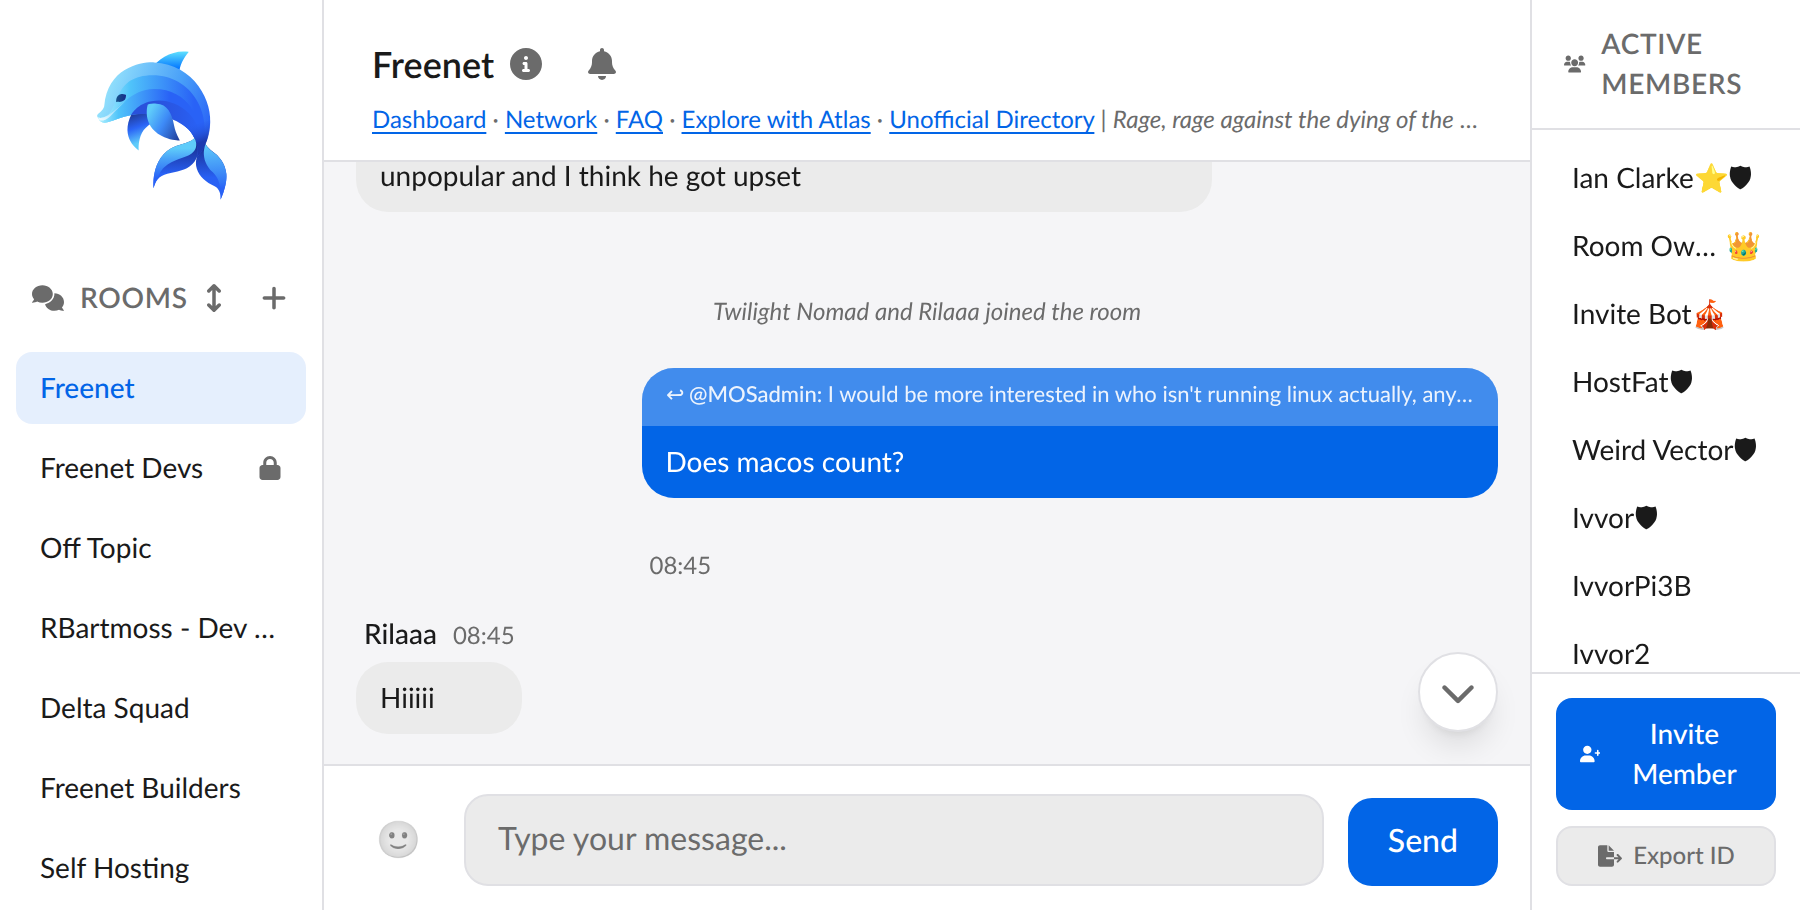
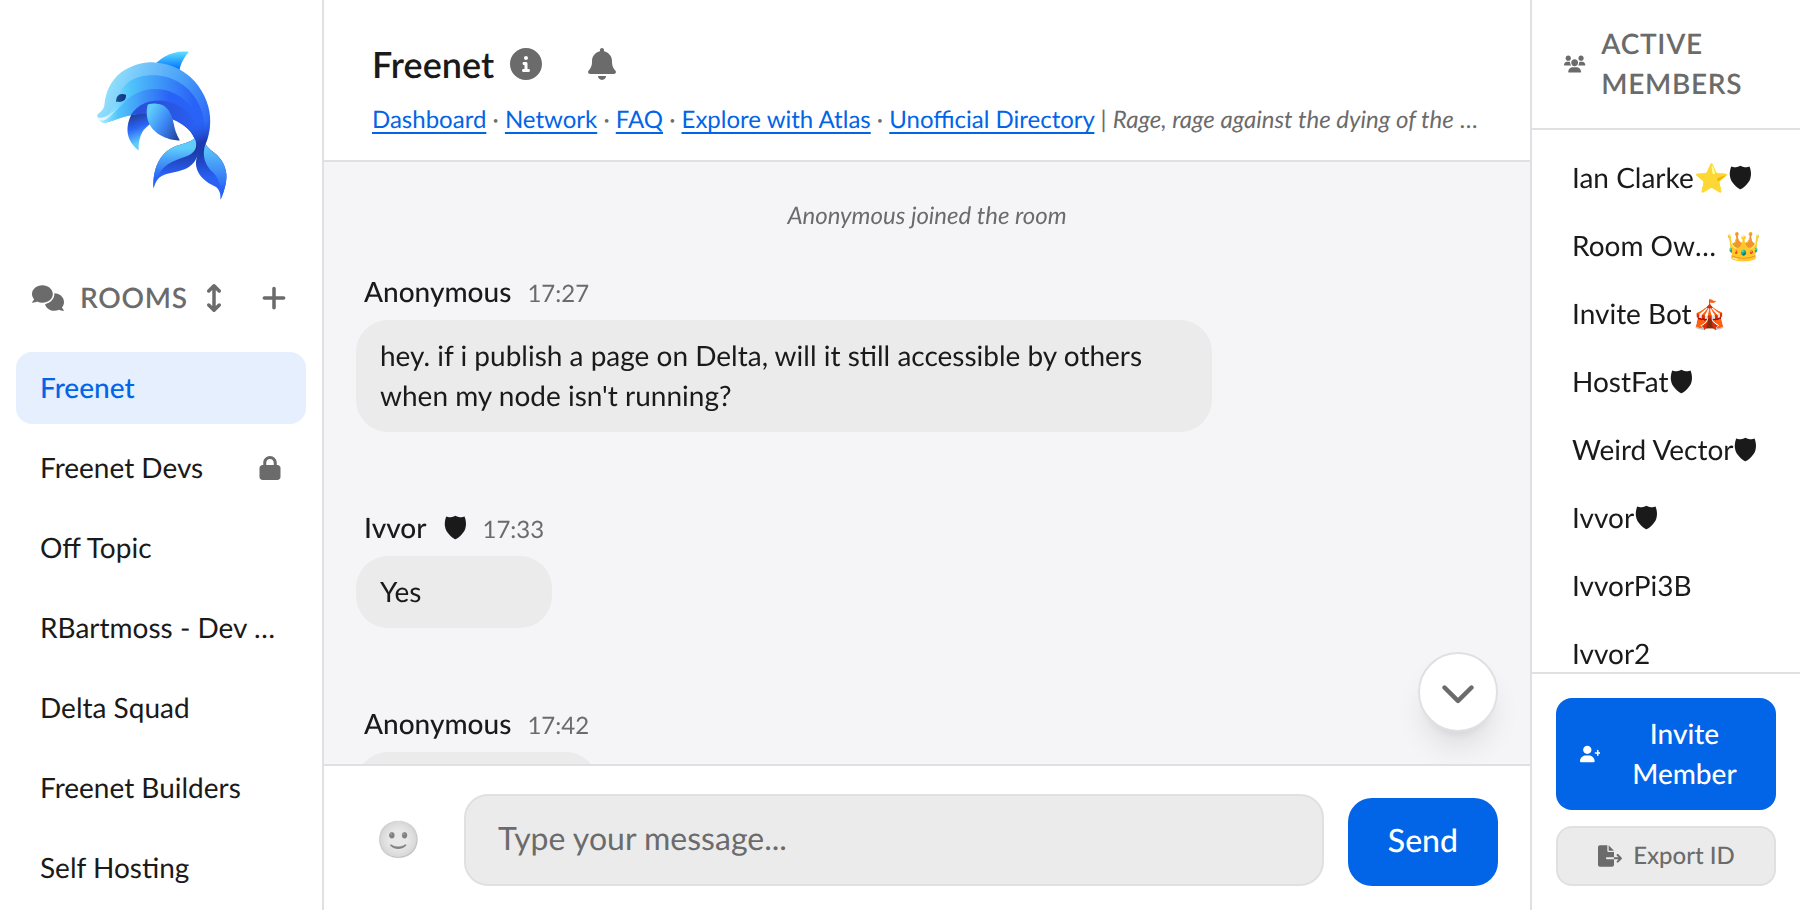
fix(hero): recapture past the gossip line; fix the other image consumers
Review caught that the replacement screenshot defeated its own purpose.

The topmost message read "unpopular and I think he got upset" - an
unattributed fragment about an unnamed third party, with its author line
cropped off. The old capture's problem was that you had to zoom to read
something embarrassing; this one put a remark about a real person being
unpopular in the first message slot at a size that reads with no zoom at
all, including in the og:image share card. That is worse than what it
replaced, and I missed it because I was checking for complaints about the
docs rather than reading the top line on its own terms.

Recaptured on the Delta thread instead: a join notice, a real question
("if i publish a page on Delta, will it still accessible by others when my
node isn't running?"), the answer ("Yes"), and "yay". The frame now starts
on a complete element rather than slicing a bubble.

Also from review, all consumers of these four files rather than just the
homepage:

- themes/freenet/layouts/river/list.html still declared 1290x867 / 1379x1269
  for files that are now 1800x910, reserving a box 200px taller than the
  image. Measured on /river/: reserved 494px against a settled 294px in
  light. That is a real layout collapse and it pushed that page's CLS from
  0.178 to 0.202. Now 1800x910 for both, reserved == settled == 294px, and
  CLS measures 0.164 light / 0.169 dark, slightly BELOW production. The
[…]

diff --git a/hugo-site/themes/freenet/layouts/river/list.html b/hugo-site/themes/freenet/layouts/river/list.html
@@ -41,11 +41,12 @@
           </span>
         </div>
         <picture>
-          {{/* The dark screenshot is 1290x867, a different aspect ratio from the
-               light one, so it needs its own dimensions or the reserved box is
-               the wrong shape in dark mode. */}}
-          <source srcset="{{ $dark }}" media="(prefers-color-scheme: dark)" width="1290" height="867">
-          <img src="{{ $light }}" alt="A live River chat room, the Freenet Official room, with a member list and messages" width="1379" height="1269" fetchpriority="high">
+          {{/* Both screenshots are captured in one pass at the same viewport, so
+               they share one aspect ratio and one set of dimensions. They used to
+               be 1290x867 dark against 1379x1269 light and needed separate
+               boxes. */}}
+          <source srcset="{{ $dark }}" media="(prefers-color-scheme: dark)" width="1800" height="910">
+          <img src="{{ $light }}" alt="A live River chat room, the Freenet room, with a room list, messages and a member list" width="1800" height="910" fetchpriority="high">
         </picture>
       </div>
     </div>

diff --git a/hugo-site/static/slides/demo/river.html b/hugo-site/static/slides/demo/river.html
@@ -5,7 +5,7 @@
     <!-- Screenshot -->
     <div style="display: flex; justify-content: center; align-items: center;">
       <div style="border-radius: 8px; overflow: hidden; box-shadow: 0 4px 30px rgba(79,172,254,0.3);">
-        <img src="/images/river-screenshot-dark.png" alt="River Chat" style="max-height: 45vh; display: block;">
+        <img src="/images/river-screenshot-dark.png" alt="River Chat" style="max-height: 45vh; max-width: 100%; display: block;">
       </div>
     </div>
 
